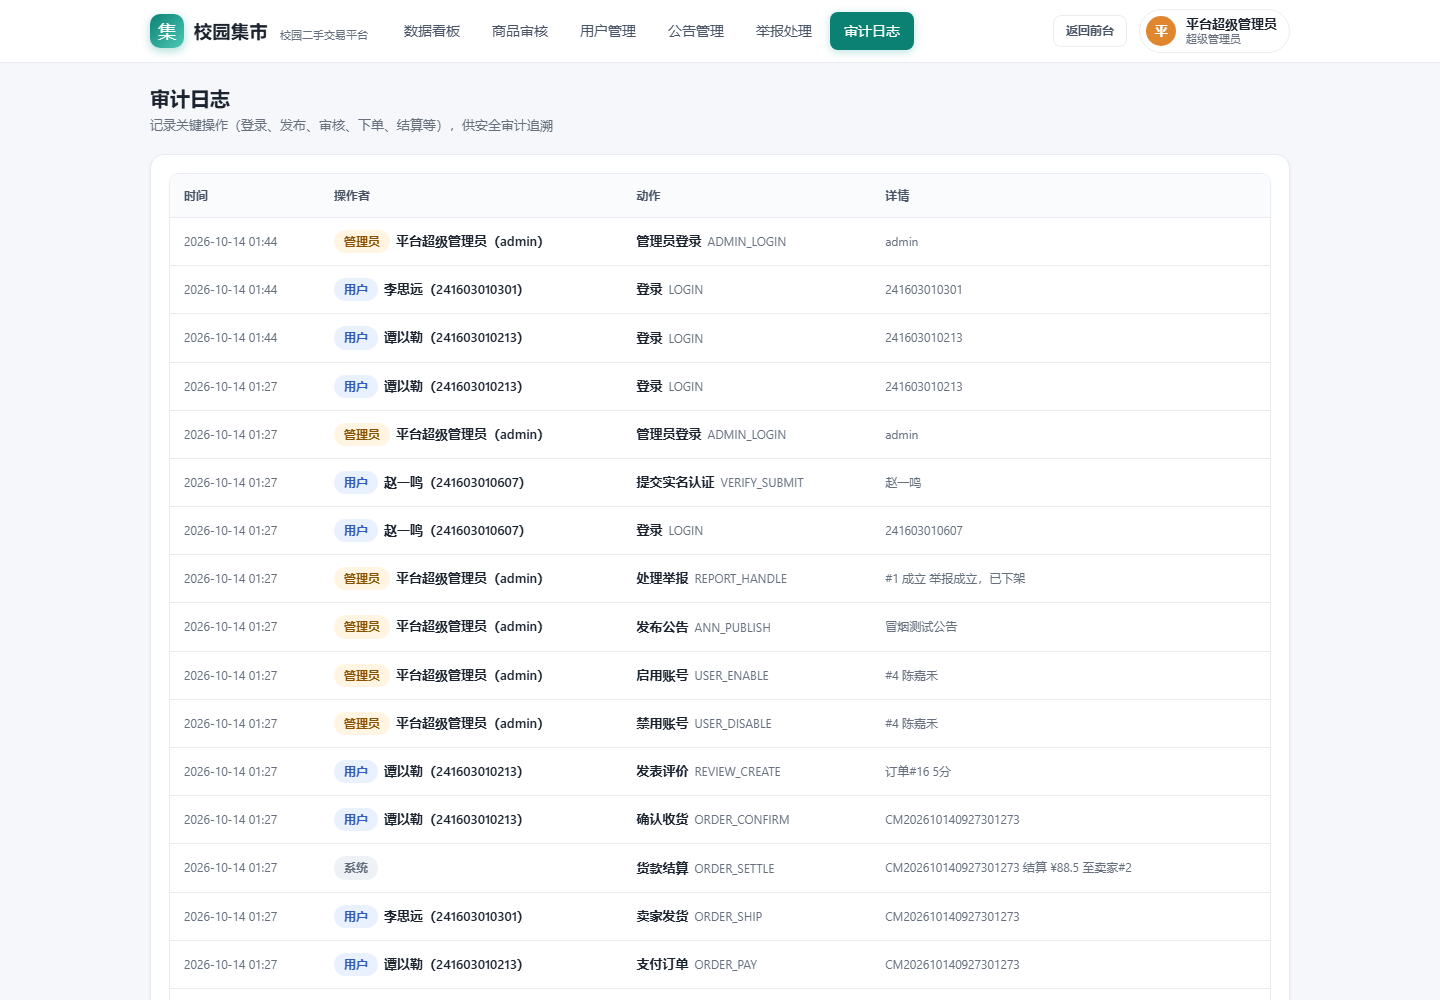
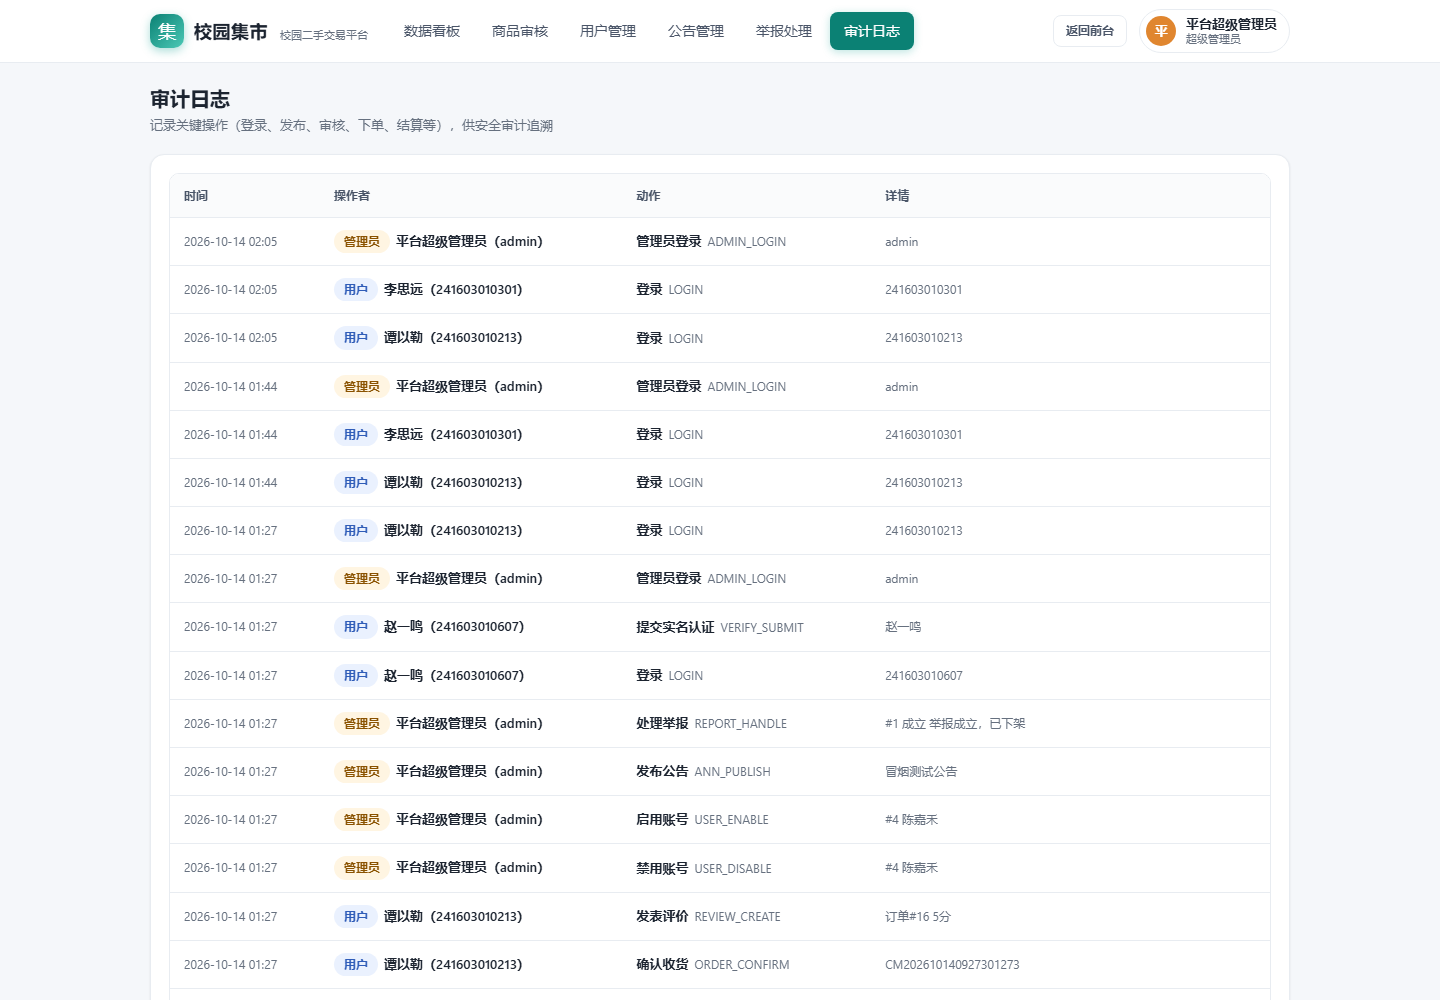
ui: 评价中心商品行可视化（封面缩略图 + 可点击卡片）
review 接口补充商品图片/类别字段；评价条目以封面缩略图 + 标题 + 类别的
卡片行展示，整行可点击直达商品详情，替代原先的纯文字商品名。

diff --git a/public/js/views/reviews.js b/public/js/views/reviews.js
@@ -1,6 +1,6 @@
 // 评价中心：我发出的评价 / 我收到的评价（含卖家回复）
 import { api } from '../api.js';
-import { h, toast, badge, empty, loading, stars, avatar, timeAgo, formDialog, confirmDialog } from '../ui.js';
+import { h, toast, badge, empty, loading, stars, avatar, timeAgo, formDialog, confirmDialog, cover } from '../ui.js';
 import { go } from '../app.js';
 
 export async function render(root) {
@@ -51,6 +51,16 @@ export async function render(root) {
     }
     actions.append(h('button', { class: 'btn btn-ghost btn-sm', text: '查看商品', onClick: () => go('#/goods/' + r.goods_id) }));
 
+    // 商品卡片：封面缩略图 + 标题，整行可点击直达商品详情
+    const goodsRow = h('div', { class: 'review-goods', title: '查看商品详情', onClick: () => go('#/goods/' + r.goods_id) },
+      h('div', { class: 'review-goods-thumb' },
+        cover({ title: r.goods_title, images: r.goods_images, category: r.goods_category }, { height: 56 })),
+      h('div', { class: 'review-goods-info' },
+        h('div', { class: 'review-goods-title', text: r.goods_title }),
+        h('div', { class: 'small muted', text: r.goods_category })
+      )
+    );
+
     return h('div', { class: 'review-item' },
       h('div', { class: 'review-head' },
         avatar(who, 34),
@@ -60,7 +70,7 @@ export async function render(root) {
         ),
         h('span', { class: 'review-time', text: timeAgo(r.created_at) })
       ),
-      h('div', { class: 'small muted', style: { marginBottom: 'var(--space-6)' } }, '商品：', r.goods_title),
+      goodsRow,
       r.content ? h('div', { class: 'review-content', text: r.content }) : h('div', { class: 'muted small', text: '（买家未填写文字评价）' }),
       r.additional
         ? h('div', { class: 'review-additional' },

diff --git a/public/styles.css b/public/styles.css
@@ -289,6 +289,16 @@ tbody tr:hover { background: var(--table-row-hover); }
   border-left: 3px solid var(--color-info); border-radius: var(--radius-8); font-size: var(--font-size-sm); color: var(--color-text-secondary);
 }
 .review-additional b { font-weight: var(--font-weight-bold); color: var(--color-info-fg); }
+.review-goods {
+  display: flex; align-items: center; gap: var(--space-10); margin-bottom: var(--space-10);
+  padding: var(--space-8) var(--space-10); background: var(--color-bg-subtle); border: 1px solid var(--color-border-subtle);
+  border-radius: var(--radius-8); cursor: pointer; transition: var(--duration-fast) var(--ease-standard);
+}
+.review-goods:hover { border-color: var(--color-action-primary-ring); background: var(--color-action-primary-subtle); }
+.review-goods-thumb { width: 56px; height: 56px; border-radius: var(--radius-8); overflow: hidden; flex-shrink: 0; }
+.review-goods-thumb .cover { height: 100%; }
+.review-goods-title { font-weight: var(--font-weight-semibold); font-size: var(--font-size-sm); color: var(--color-text-primary); }
+.review-goods:hover .review-goods-title { color: var(--color-action-primary-hover); }
 
 .order-card { border: 1px solid var(--line); border-radius: var(--radius-12); margin-bottom: var(--space-14); overflow: hidden; background: var(--color-bg-surface); }
 .order-head {

diff --git a/src/routes/review.js b/src/routes/review.js
@@ -88,14 +88,16 @@ export function registerReview(router) {
       role === 'received'
         ? db
             .prepare(
-              `SELECT r.*, g.title AS goods_title, u.nickname AS buyer_name, u.avatar AS buyer_avatar
+              `SELECT r.*, g.title AS goods_title, g.images AS goods_images, g.category AS goods_category,
+                      u.nickname AS buyer_name, u.avatar AS buyer_avatar
                FROM t_review r JOIN t_goods g ON r.goods_id=g.goods_id JOIN t_user u ON r.user_id=u.user_id
                WHERE g.seller_id=? ORDER BY r.review_id DESC`
             )
             .all(me.sub)
         : db
             .prepare(
-              `SELECT r.*, g.title AS goods_title, g.seller_id, us.nickname AS seller_name
+              `SELECT r.*, g.title AS goods_title, g.images AS goods_images, g.category AS goods_category,
+                      g.seller_id, us.nickname AS seller_name
                FROM t_review r JOIN t_goods g ON r.goods_id=g.goods_id JOIN t_user us ON g.seller_id=us.user_id
                WHERE r.user_id=? ORDER BY r.review_id DESC`
             )
